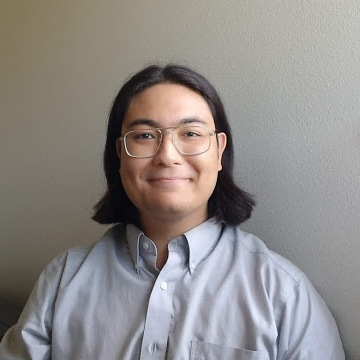
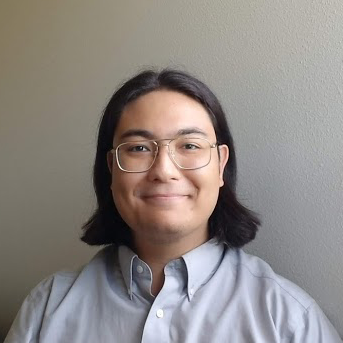
clean up portraits folder

diff --git a/officers.html b/officers.html
@@ -39,7 +39,7 @@
   <table style="display: inline-block; padding-left: 50px; padding-bottom: 20px">
   	<tr>
       	<td style = "text-align:center; padding-bottom: 10px">
-          <img src = "/Images/Portraits/Marzban_Ethan2.png" alt="Avatar" style="width:200px">
+          <img src = "/Images/Portraits/Marzban_Ethan.png" alt="Avatar" style="width:200px">
         </td>
   	</tr>
     <tr>
